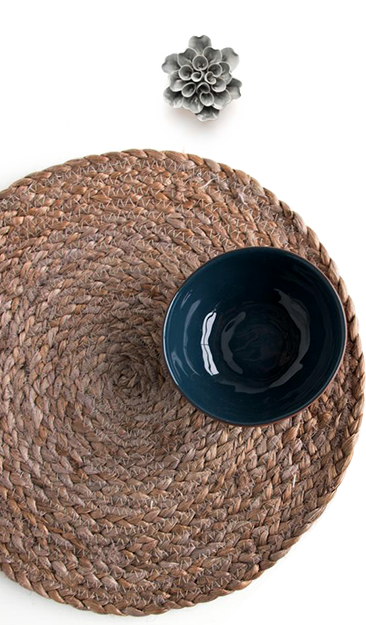
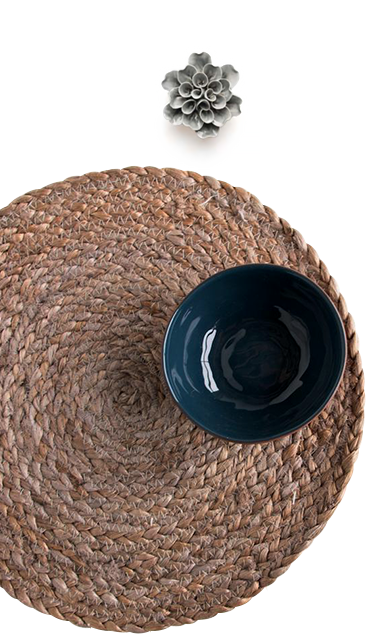
[PC] 0309 Living Fair 수정적용

diff --git a/public/css/pc_event.css b/public/css/pc_event.css
@@ -259,8 +259,8 @@
 .event_0309_livingFair .event_top_section1 .title_wrap h2 {font-size:100px;font-weight:600;color:#fff;line-height:1;}
 .event_0309_livingFair .event_top_section1 .title_wrap p {font-family:Noto Sans KR;font-size:28px;color:#fff;line-height:1;}
 .event_0309_livingFair .event_top_section2 {position:relative;}
-.event_0309_livingFair .event_top_section2:before {content:'';display:block;position:absolute;top:0;right:0;z-index:-1;width:431px;height:641px;background:url(../img/event/0309_livingFair/event_livingFair_bg2.png) 0 0 no-repeat;}
-.event_0309_livingFair .event_top_section2:after {content:'';display:block;position:absolute;bottom:350px;left:0;width:366px;height:635px;background:url(../img/event/0309_livingFair/event_livingFair_bg3.png) 0 0 no-repeat;}
+.event_0309_livingFair .event_top_section2:before {content:'';display:block;position:absolute;top:190px;right:0;z-index:-1;width:431px;height:641px;background:url(../img/event/0309_livingFair/event_livingFair_bg2.png) 0 0 no-repeat;}
+.event_0309_livingFair .event_top_section2:after {content:'';display:block;position:absolute;bottom:375px;left:0;width:366px;height:635px;background:url(../img/event/0309_livingFair/event_livingFair_bg3.png) 0 0 no-repeat;}
 .event_0309_livingFair .event_top_section2 .inner {width:1260px;margin:0 auto;}
 .event_0309_livingFair .event_top_section2 .title_wrap {padding:90px 0;text-align:center;}
 .event_0309_livingFair .event_top_section2 .title_wrap h3 {font-weight:500;font-family:Noto Sans KR;font-size:34px;color:#111;line-height:1;}
